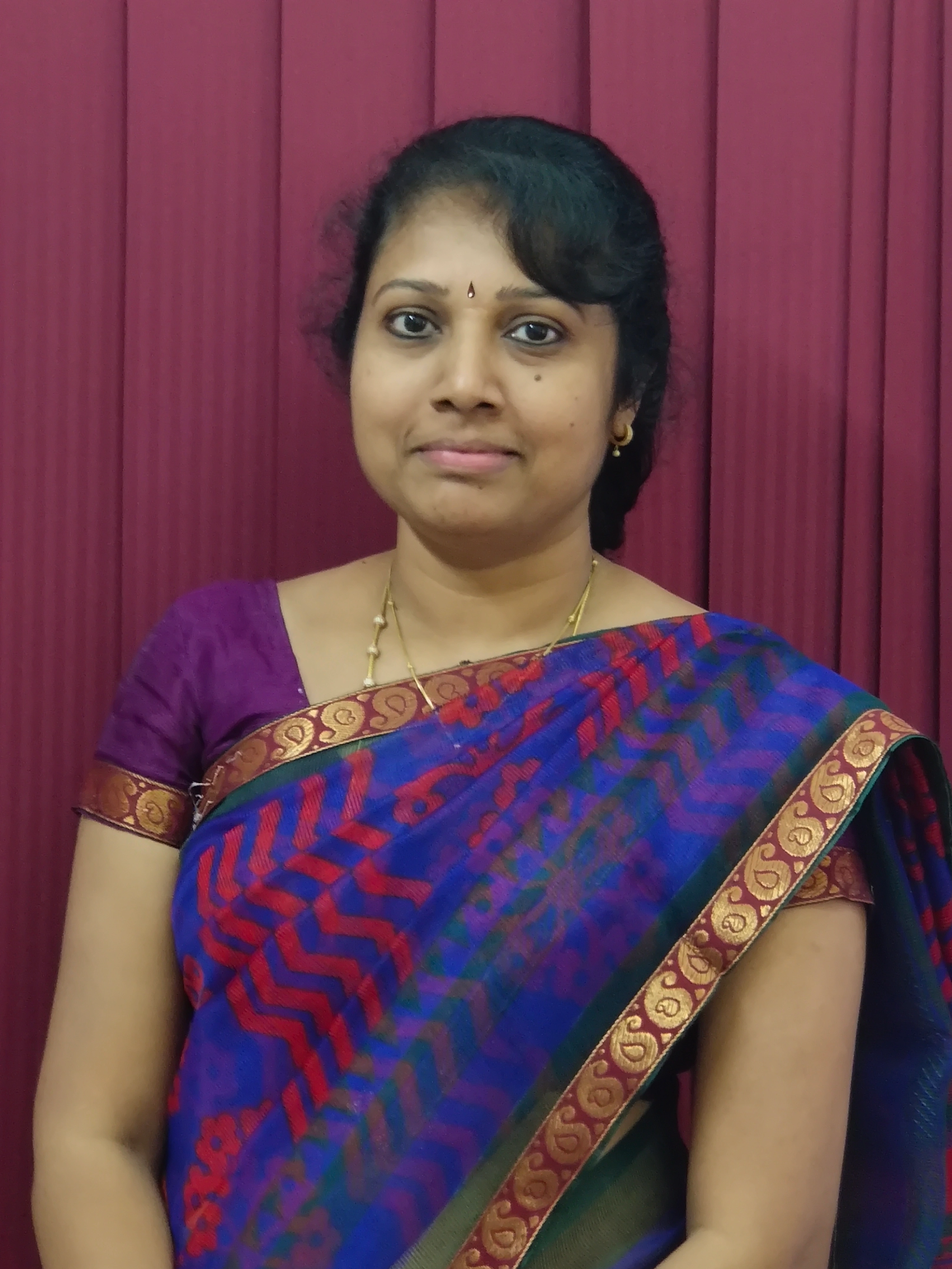
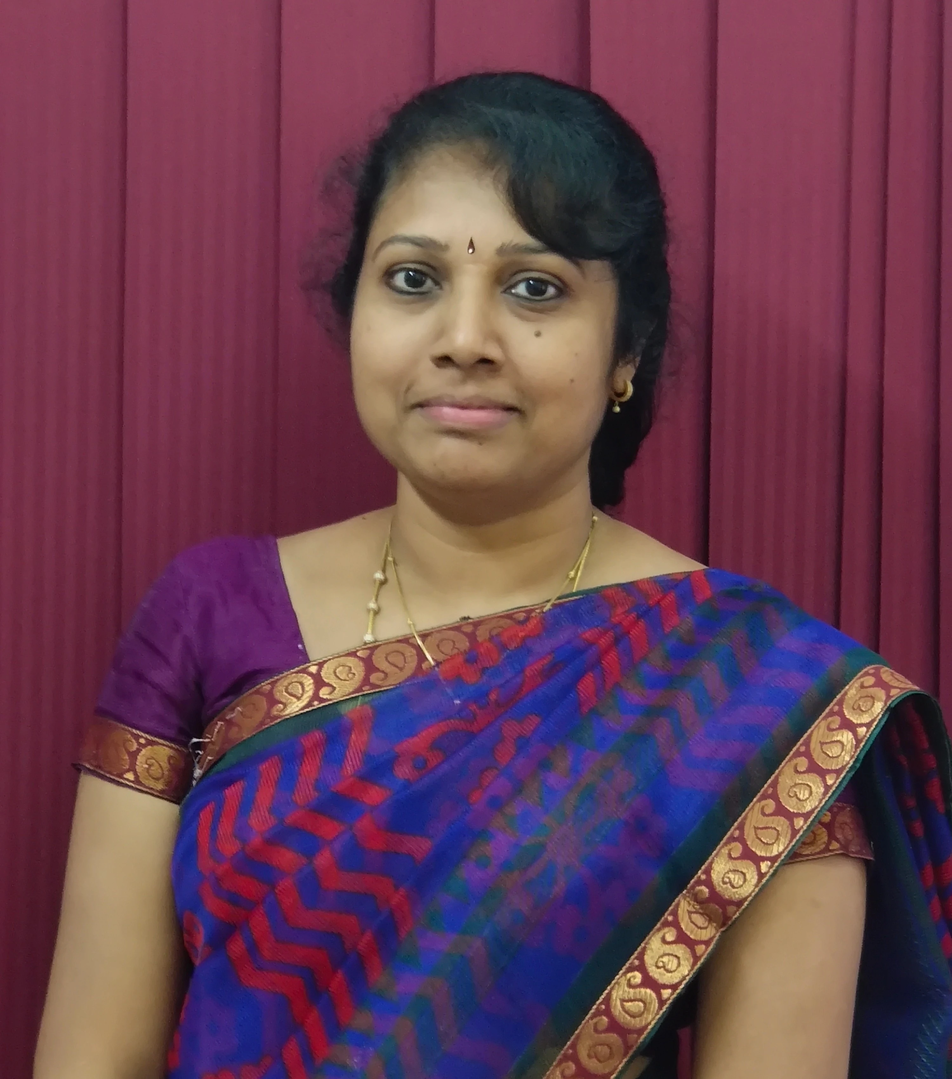
Image updated Company name removed Director image updation Card design updation

diff --git a/src/components/Director.jsx b/src/components/Director.jsx
@@ -1,111 +1,4 @@
-// import React from "react";
-// import { motion } from "framer-motion";
-// import Dmm from "../assets/director.webp";
 
-// function DirectorMessage() {
-//   return (
-//     <div
-//     className="flex flex-col items-center justify-center min-h-screen bg-gray-100"
-//     style={{ backgroundColor: "rgba(229, 229, 229, 0.84)", padding: "20px" }}
-//   >
-//     <h1
-//       className="text-4xl font-bold mb-6 tracking-wider underline underline-offset-8 decoration-blue-200 decoration-1 pt-7 text-center"
-//       style={{
-//         color: "#232627",
-//         fontFamily: "Raleway, sans-serif",
-//       }}
-//     >
-//       DIRECTOR'S MESSAGE
-//     </h1>
-//     <motion.div
-//       className="max-w-4xl bg-white rounded-xl shadow-md p-8 md:flex items-center"
-//       style={{
-//         backgroundColor: "#f9fafc",
-//         padding: "40px",
-//         borderRadius: "12px",
-//         boxShadow: "0px 10px 30px rgba(5, 5, 5, 0.31)",
-//         margin: "30px auto",
-//         textAlign: "center",
-//       }}
-//       initial={{ opacity: 0, y: 50 }}
-//       animate={{ opacity: 1, y: 0 }}
-//       transition={{ duration: 1 }}
-//     >
-//       <motion.img
-//         src={Dmm}
-//         alt="Director"
-//         className="w-48 h-48 mx-auto md:mr-8 md:ml-0"
-//         style={{
-//           width: "240px",
-//           height: "320px",
-//           borderRadius: "10%",
-//           border: "4px solid #1b263b",
-//           objectFit: "cover",
-//           boxShadow: "0px 5px 15px rgba(0, 0, 0, 0.2)",
-//         }}
-//         initial={{ scale: 0 }}
-//         animate={{ scale: 1 }}
-//         transition={{ duration: 1 }}
-//       />
-//       <div className="md:flex-1 text-justify" style={{ padding: "0 20px" }}>
-//         <motion.p
-//           className="mb-6 pb-2"
-//           style={{ color: "#2f3e54", fontSize: "1.1rem", lineHeight: "1.8" }}
-//           initial={{ opacity: 0 }}
-//           animate={{ opacity: 1 }}
-//           transition={{ delay: 0.5, duration: 1 }}
-//         >
-//           It is my pleasure to welcome you to the Center for Immersive Technologies.
-//           Our research centre is dedicated to exploring the possibilities of immersive
-//           technologies such as Augmented Reality (AR), Virtual Reality (VR), Extended Reality
-//           (XR), Digital Twin, and Metaverse. We strive to push the boundaries of these
-//           technologies to create new experiences, applications, and opportunities for students,
-//           researchers, and industries.
-//           <br />
-//           <br />
-//           As the Director of the Center for Immersive Technologies, I am proud of the work that
-//           our team is doing to advance the field of immersive technologies. Our focus areas
-//           include AR and VR development, XR applications, Digital Twin, and Metaverse design.
-//           We believe that these technologies have the potential to revolutionize industries such
-//           as education, healthcare, entertainment, and more.
-//         </motion.p>
-
-//         <motion.p
-//           style={{ color: "#2f3e54", fontSize: "1.1rem", lineHeight: "1.8" }}
-//           initial={{ opacity: 0 }}
-//           animate={{ opacity: 1 }}
-//           transition={{ delay: 1, duration: 1 }}
-//         >
-//           At the Center for Immersive Technologies, we are committed to conducting cutting-edge
-//           research in immersive technologies. We work closely with industry partners, academic
-//           institutions, and other research organizations to share our findings and collaborate on
-//           new projects. We are also dedicated to creating immersive educational content that
-//           engages and inspires learners, enhancing their understanding and retention of complex
-//           topics. We believe that collaboration is key to advancing the field of immersive
-//           technologies. We welcome individuals and organizations who share our passion to join
-//           us in this exciting journey.
-//           <br />
-//           <br />
-//           Thank you for visiting the Center for Immersive Technologies. We invite you to explore
-//           our website to learn more about our research activities, educational content, and
-//           collaborative opportunities.
-//           <br />
-//           <br />
-//           <strong>Best regards,</strong>
-//           <br />
-//           <strong>Dr. S Chitrakala,</strong>
-//           <br />
-//           Director,
-//           <br />
-//           Center for Immersive Technologies.
-//         </motion.p>
-//       </div>
-//     </motion.div>
-//   </div>
-//   );
-// }
-
-// export default DirectorMessage;
 import React from "react";
 import { motion } from "framer-motion";
 import Dmm from "../assets/director.webp";

diff --git a/src/components/ui/card-hover-effect.jsx b/src/components/ui/card-hover-effect.jsx
@@ -4,23 +4,28 @@ import { Link } from "react-router-dom";
 import { useState } from "react";
 
 export const HoverEffect = ({ items, className }) => {
-  let [hoveredIndex, setHoveredIndex] = useState(null);
+  const [hoveredIndex, setHoveredIndex] = useState(null);
 
   return (
-    <div className={cn("grid grid-cols-1 md:grid-cols-1 lg:grid-cols-2 gap-8 justify-center p-8", className)}>
+    <div
+      className={cn(
+        "grid grid-cols-1 md:grid-cols-1 lg:grid-cols-2 gap-6 justify-center p-6",
+        className
+      )}
+    >
       {items.map((item, idx) => (
         <Link
           to={item?.link || "#"}
           key={idx}
-          className="relative group block p-2 h-full w-full"
+          className="relative group block w-full"
           onMouseEnter={() => setHoveredIndex(idx)}
           onMouseLeave={() => setHoveredIndex(null)}
         >
           <Card image={item.image} hovered={hoveredIndex === idx}>
             <CardTitle>{item.name}</CardTitle>
             <CardDescription>{item.position}</CardDescription>
-            <p className="text-gray-500">{item.description}</p> 
-            <p className="text-gray-500">{item.address}</p> 
+            <p className="text-gray-500 text-sm md:text-base">{item.description}</p>
+            <p className="text-gray-500 text-sm md:text-base">{item.address}</p>
           </Card>
         </Link>
       ))}
@@ -32,13 +37,13 @@ export const Card = ({ className, children, image, hovered }) => {
   return (
     <div
       className={cn(
-        "relative overflow-hidden rounded-lg p-6 flex flex-col md:flex-row items-center space-x-4 container transition-all duration-200 ease-in-out",
+        "relative overflow-hidden rounded-lg flex flex-row items-center gap-6 transition-all duration-200 ease-in-out",
         "bg-[#f9fafb] shadow-sm hover:shadow-md",
-        "min-h-[250px] md:min-h-[250px] lg:min-h-[250px] w-full", 
+        "min-h-[200px] w-full",
         className
       )}
     >
-      {/* Hover Effect Covering Entire Card */}
+      {/* Hover background overlay */}
       <AnimatePresence>
         {hovered && (
           <motion.span
@@ -51,25 +56,31 @@ export const Card = ({ className, children, image, hovered }) => {
         )}
       </AnimatePresence>
 
-      {/* Image - On Top (Mobile) and Left (Desktop) */}
+      {/* Image - No padding, flush left */}
       {image && (
-        <img 
-          src={image} 
-          alt="Committee Member" 
-          className="w-24 h-24 md:w-28 md:h-28 rounded-full object-cover border-2 border-gray-300 relative z-10 mb-4 md:mb-0 md:mr-4"
+        <img
+          src={image}
+          alt="Committee Member"
+          className="w-32 h-40 md:w-36 md:h-48 object-cover rounded-l-lg border-r border-gray-200 relative z-10"
         />
       )}
 
-      {/* Text Content */}
-      <div className="flex flex-col justify-center relative z-10 p-2 w-full text-center md:text-left">
+      {/* Text content - Right side */}
+      <div className="flex flex-col justify-center relative z-10 p-4 w-full">
         {children}
       </div>
     </div>
   );
 };
+
 export const CardTitle = ({ className, children }) => {
   return (
-    <h2 className={cn("text-lg md:text-xl font-bold text-[#191b1c] relative z-20", className)}>
+    <h2
+      className={cn(
+        "text-xl md:text-2xl font-semibold text-[#191b1c] mb-1 relative z-20",
+        className
+      )}
+    >
       {children}
     </h2>
   );
@@ -77,7 +88,12 @@ export const CardTitle = ({ className, children }) => {
 
 export const CardDescription = ({ className, children }) => {
   return (
-    <p className={cn("text-gray-700 text-sm md:text-base relative z-20", className)}>
+    <p
+      className={cn(
+        "text-gray-700 text-sm md:text-base mb-1 relative z-20",
+        className
+      )}
+    >
       {children}
     </p>
   );

diff --git a/src/components/Course_offered.jsx b/src/components/Course_offered.jsx
@@ -82,29 +82,40 @@ function Course_offered() {
           ONLINE COURSES
         </h1>
       </div>
+
       <div className="my-8 mx-4">
         <div className="grid grid-cols-1 md:grid-cols-3 lg:grid-cols-3 gap-8 justify-center">
           {courses.map((course, index) => (
-            <div className="card2">
-   <div className="mt-auto">
-               <h2 className="text-2xl font-bold mb-2 text-[#191b1c] text-center">{course.name}</h2>
-             </div>
-               <div className="mt-auto pt-4">
-                <h1 className="text-xl font-medium mb-2 text-[#191b1c] text-center">{course.company}</h1>
-               </div>
-               <div className="mt-auto pt-4">
-                 <p className="text-slate-900 mb-2 mx-auto text-center">{course.description}</p>
-               </div>
-  <div className="access-button-container">
-    {course.enabled ? (
-      <a href={course.link} target="_blank" rel="noopener noreferrer" className="access-button">
-        Access
-      </a>
-    ) : (
-      <span className="access-button disabled">Access</span>
-    )}
-  </div>
-</div>
+            <div key={index} className="card2">
+              <div className="mt-auto">
+                <h2 className="text-2xl font-bold mb-2 text-[#191b1c] text-center">
+                  {course.name}
+                </h2>
+              </div>
+
+              {/* Removed company display here */}
+
+              <div className="mt-auto pt-4">
+                <p className="text-slate-900 mb-2 mx-auto text-center">
+                  {course.description}
+                </p>
+              </div>
+
+              <div className="access-button-container">
+                {course.enabled ? (
+                  <a
+                    href={course.link}
+                    target="_blank"
+                    rel="noopener noreferrer"
+                    className="access-button"
+                  >
+                    Access
+                  </a>
+                ) : (
+                  <span className="access-button disabled">Access</span>
+                )}
+              </div>
+            </div>
           ))}
         </div>
       </div>
@@ -113,4 +124,3 @@ function Course_offered() {
 }
 
 export default Course_offered;
-
